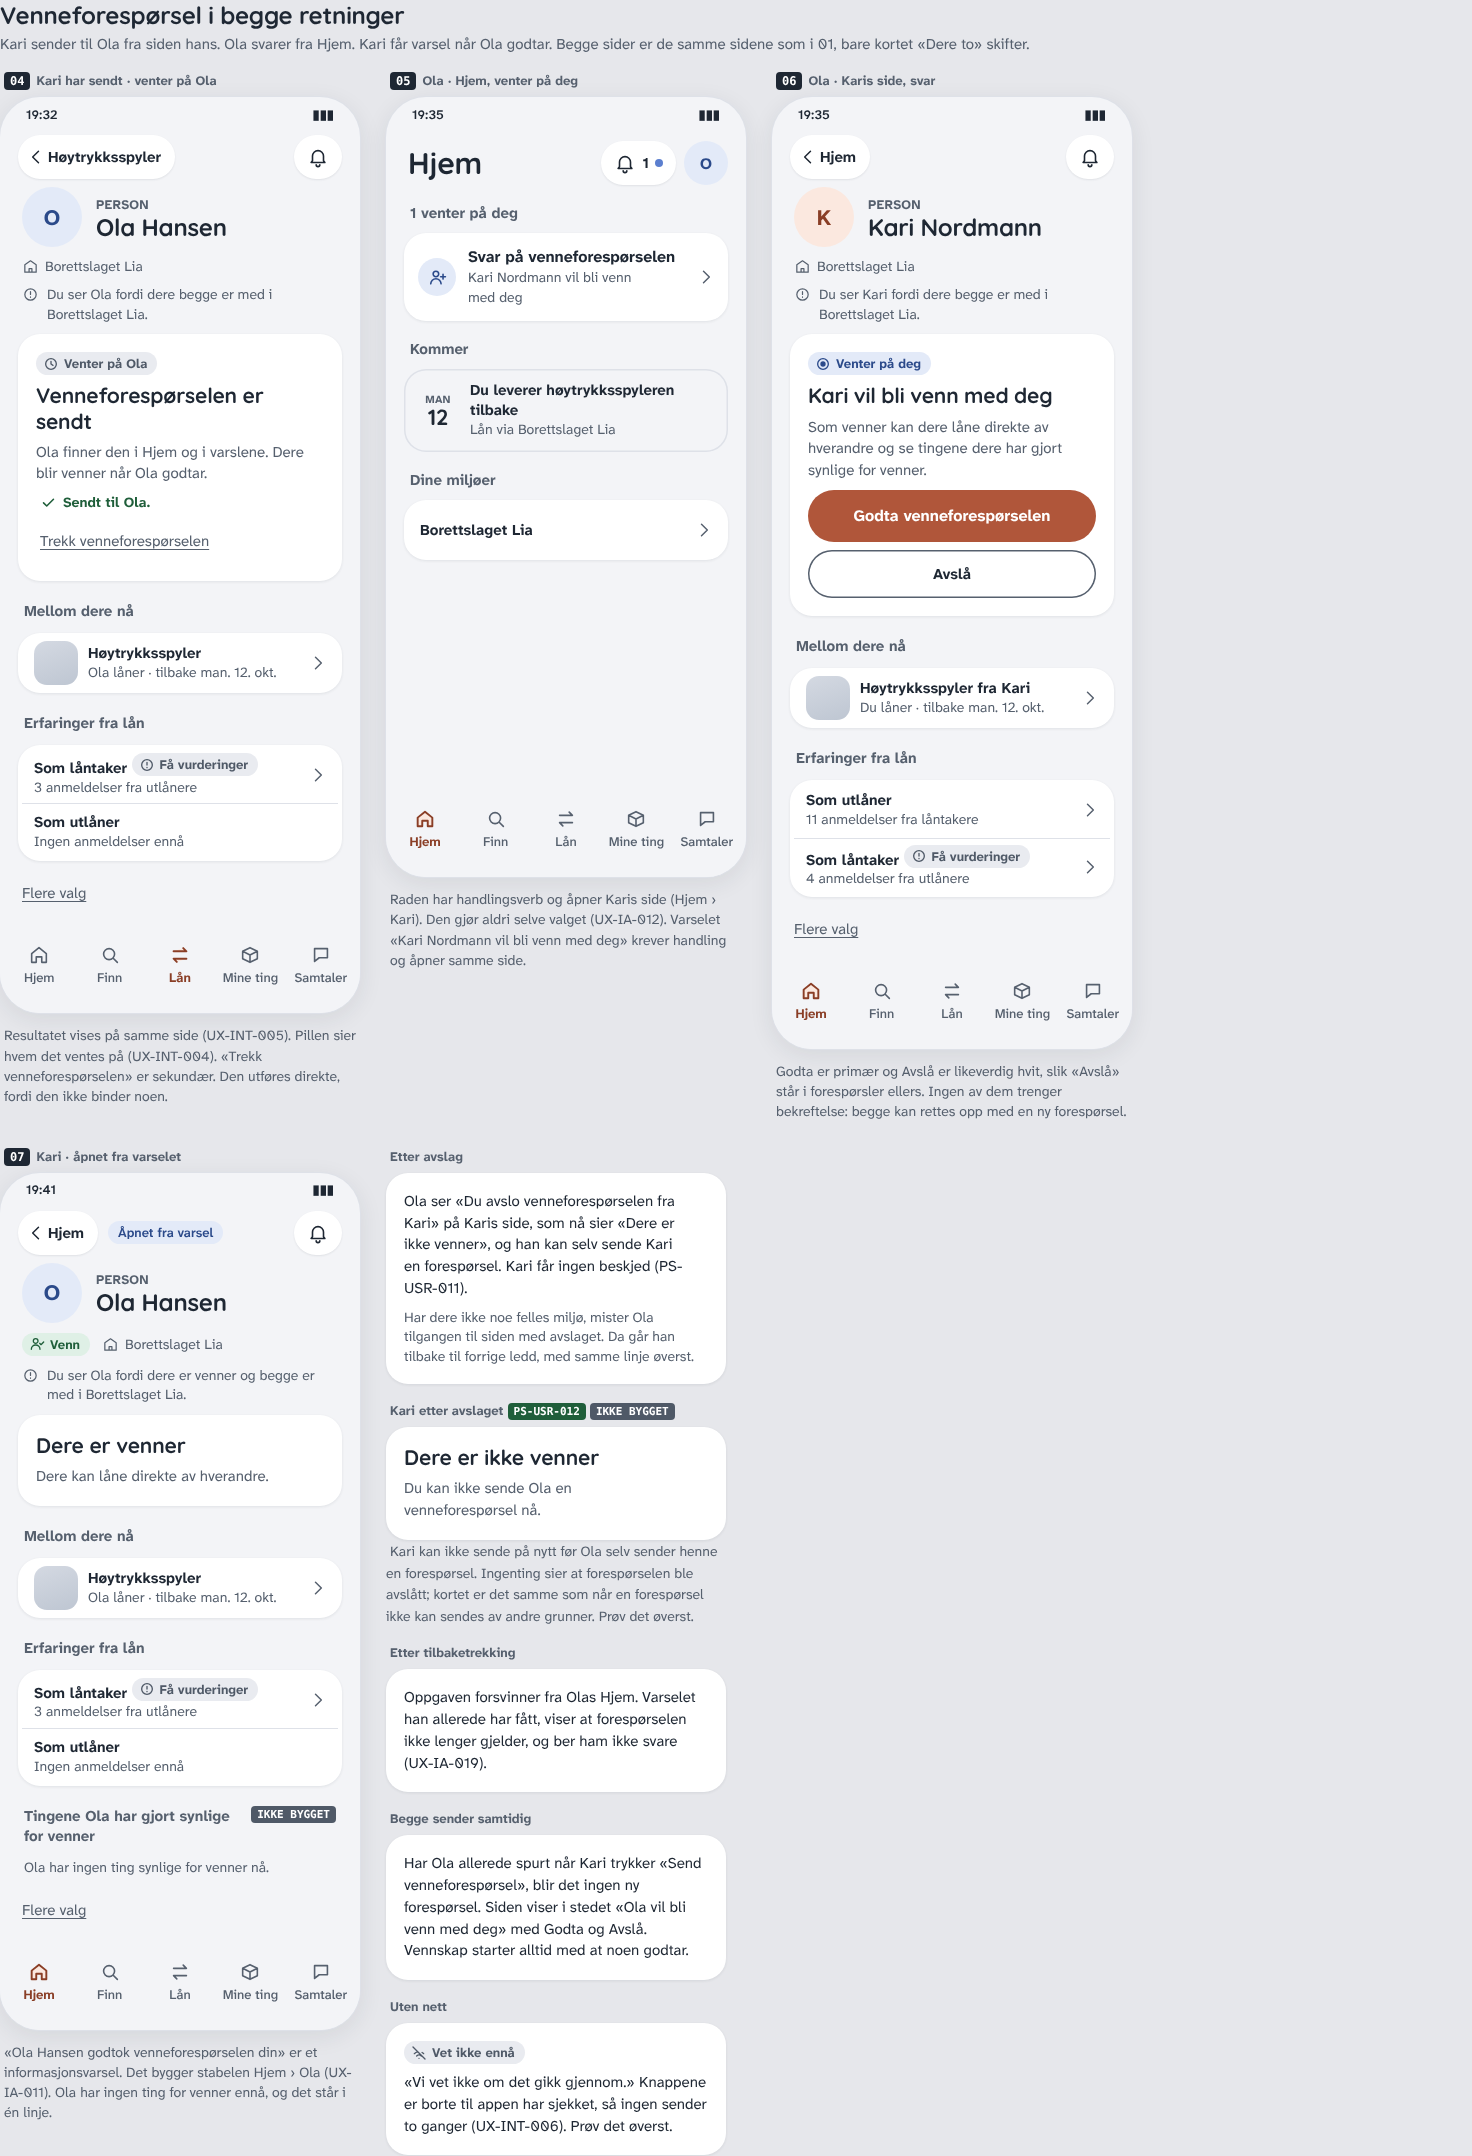
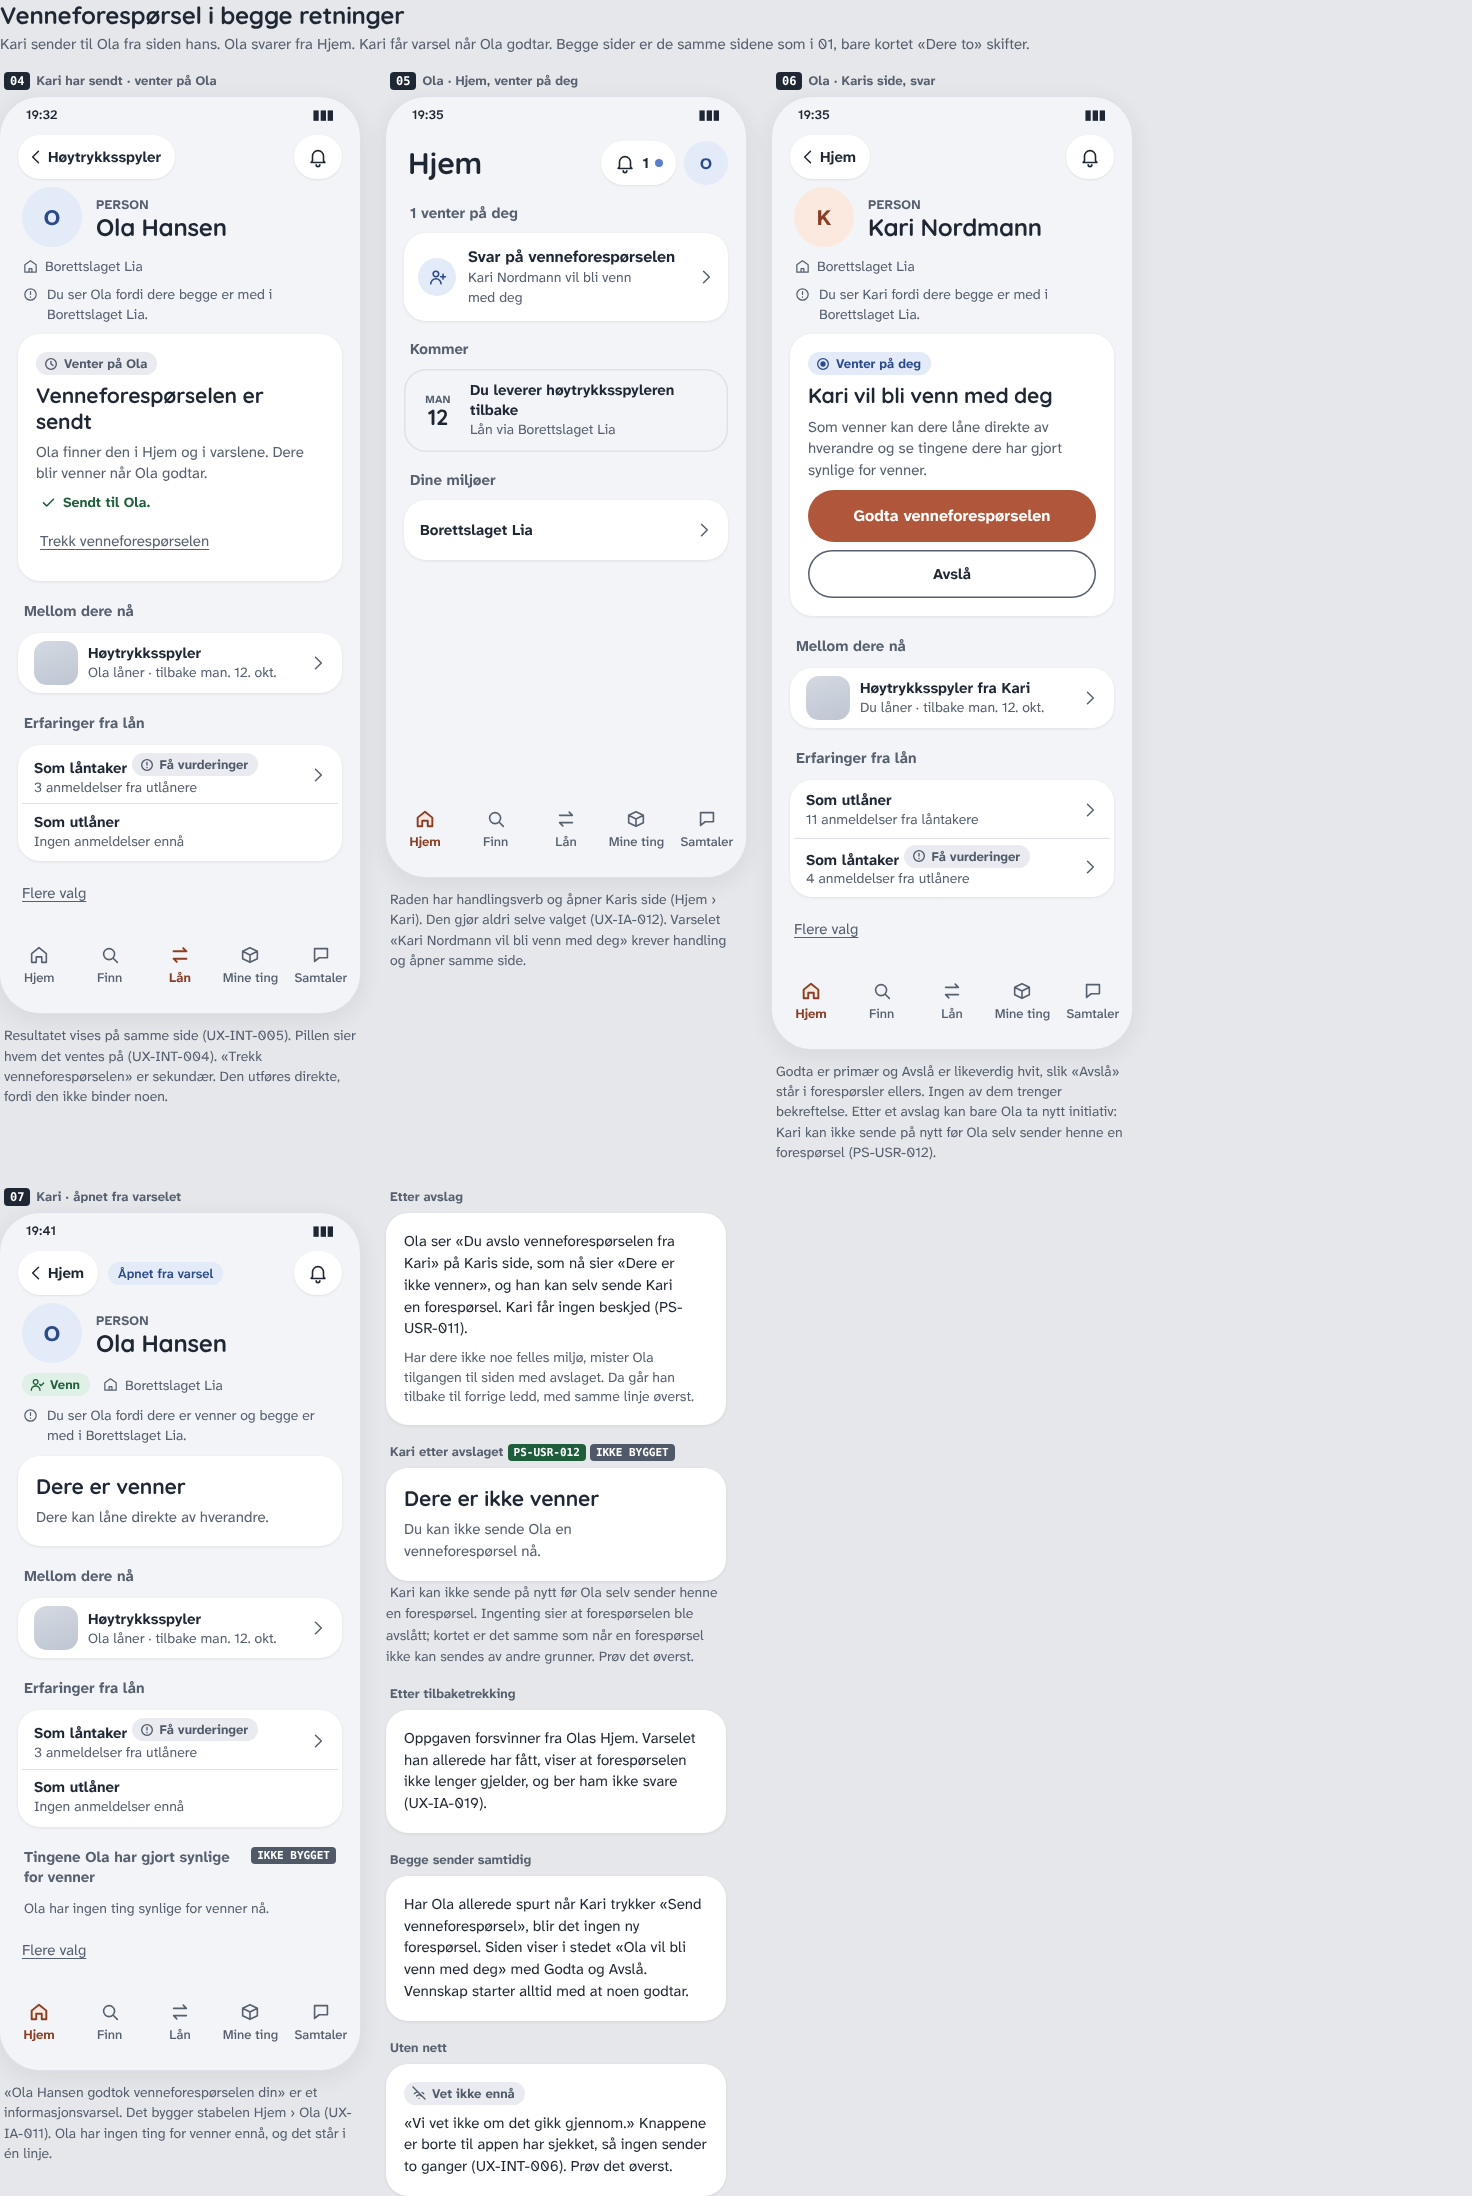
Kjerneflyt 6: rett neste designbolk og bildetekst for skjerm 06
Claude-Session: https://claude.ai/code/session_01Wn9USkRLj7QBELqJjgCtcD

diff --git a/design/Lånbort - Personer, venner og tillit v1.html b/design/Lånbort - Personer, venner og tillit v1.html
@@ -575,7 +575,7 @@ ${sec('Kommer')}<div class="cd ol" style="flex-direction:row;gap:12px;align-item
 ${sec('Dine miljøer')}<div class="cd" style="padding:2px 4px;gap:0">${mr({ t:'Borettslaget Lia' })}</div></div>${nav('hjem')}`,
         cap:'Raden har handlingsverb og åpner Karis side (Hjem › Kari). Den gjør aldri selve valget (UX-IA-012). Varselet «Kari Nordmann vil bli venn med deg» krever handling og åpner samme side.' }),
       phone({ num:'06', label:'Ola · Karis side, svar', time:'19:35', body:personPage({ who:'kari', rel:'in', back:'Hjem', area:'hjem', env:'Borettslaget Lia', why:'Du ser Kari fordi dere begge er med i Borettslaget Lia.', between:[['Høytrykksspyler fra Kari', 'Du låner · tilbake man. 12. okt.']], first:'lender' }),
-        cap:'Godta er primær og Avslå er likeverdig hvit, slik «Avslå» står i forespørsler ellers. Ingen av dem trenger bekreftelse: begge kan rettes opp med en ny forespørsel.' }),
+        cap:'Godta er primær og Avslå er likeverdig hvit, slik «Avslå» står i forespørsler ellers. Ingen av dem trenger bekreftelse. Etter et avslag kan bare Ola ta nytt initiativ: Kari kan ikke sende på nytt før Ola selv sender henne en forespørsel (PS-USR-012).' }),
       phone({ num:'07', label:'Kari · åpnet fra varselet', time:'19:41', body:personPage({ who:'ola', rel:'friends', back:'Hjem', from:'Åpnet fra varsel', area:'hjem', env:'Borettslaget Lia', why:'Du ser Ola fordi dere er venner og begge er med i Borettslaget Lia.', between:[['Høytrykksspyler', 'Ola låner · tilbake man. 12. okt.']], first:'borrower', things:[] }),
         cap:'«Ola Hansen godtok venneforespørselen din» er et informasjonsvarsel. Det bygger stabelen Hjem › Ola (UX-IA-011). Ola har ingen ting for venner ennå, og det står i én linje.' }),
       `<div class="stack">

diff --git a/design/README.md b/design/README.md
@@ -21,7 +21,7 @@
 | Kjerneflyt 5 – Samtaler og enheter | [Lånbort - Samtaler og enheter v2.html](<Lånbort - Samtaler og enheter v2.html>) | **Arbeidsutkast, ikke godkjent produktatferd.** U1–U11 i prototypen er forslag som må avklares mot kanoniske regler / beslutningsregisteret |
 | Kjerneflyt 6 – Personer, venner og tillit | [Lånbort - Personer, venner og tillit v1.html](<Lånbort - Personer, venner og tillit v1.html>) | **Til siste gjennomgang, ennå ikke godkjent.** Dekker WP-86 (personens side, tillit i rollen, venneforespørsler, fjerning, blokkering og Konto-visningene). Produktvalgene fra første utkast ble avgjort 9. oktober 2026 (OD-0027–OD-0032) og står i PS-USR-002, PS-USR-011–012, PS-TRUST-017, UX-IA-020 og UX-PRIV-012. Skrevet som vanlig HTML, ikke som bundle |
 
-**Foreslått neste designbolk:** Avklar først U1–U3 og K1–K2 i kjerneflyt 6. Neste bolk velges deretter etter fase 6 i `docs/planning/ui-design-plan.md`.
+**Foreslått neste designbolk:** Produktvalgene i kjerneflyt 6 er avklart (OD-0027–OD-0032) og skal ikke tas opp igjen. Neste bolk velges etter fase 6 i `docs/planning/ui-design-plan.md`.
 
 ## Konkrete stilankre
 
